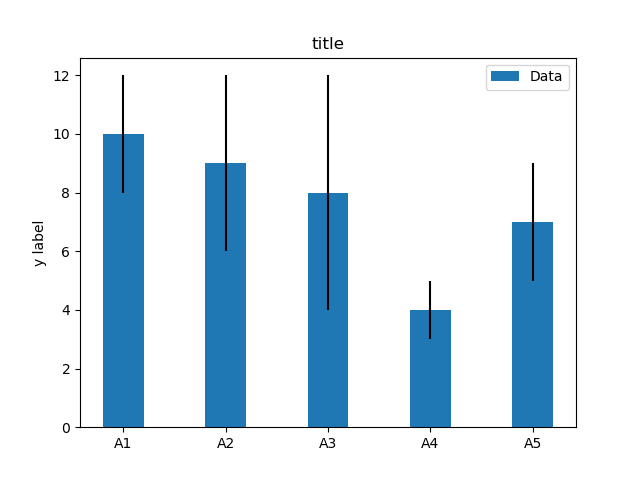
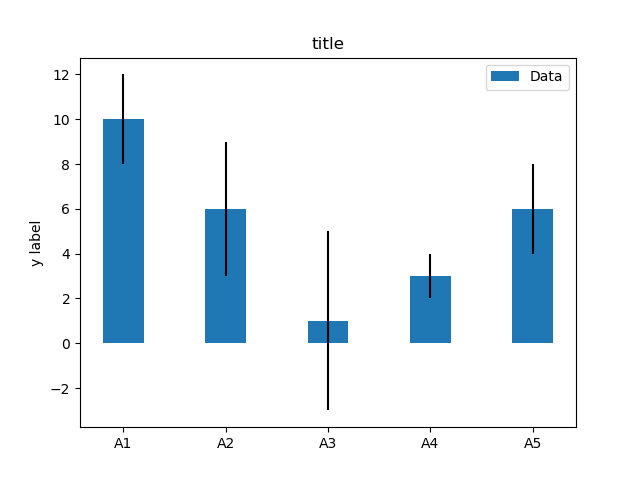
first commit

diff --git a/example.py b/example.py
@@ -2,7 +2,7 @@ import numpy as np
 import matplotlib.pyplot as plt
 
 labels = ['A1', 'A2', 'A3', 'A4', 'A5']
-m_means = [10,9,8,4,7]
+m_means = [10,6,1,3,6]
 m_std = [2, 3, 4, 1, 2]
 width = 0.40       # the width of the bars
 

diff --git a/README.md b/README.md
@@ -1,4 +1,4 @@
-# Matplotlib no 176 
+# Matplotlib no 177 
 
 python example
 
